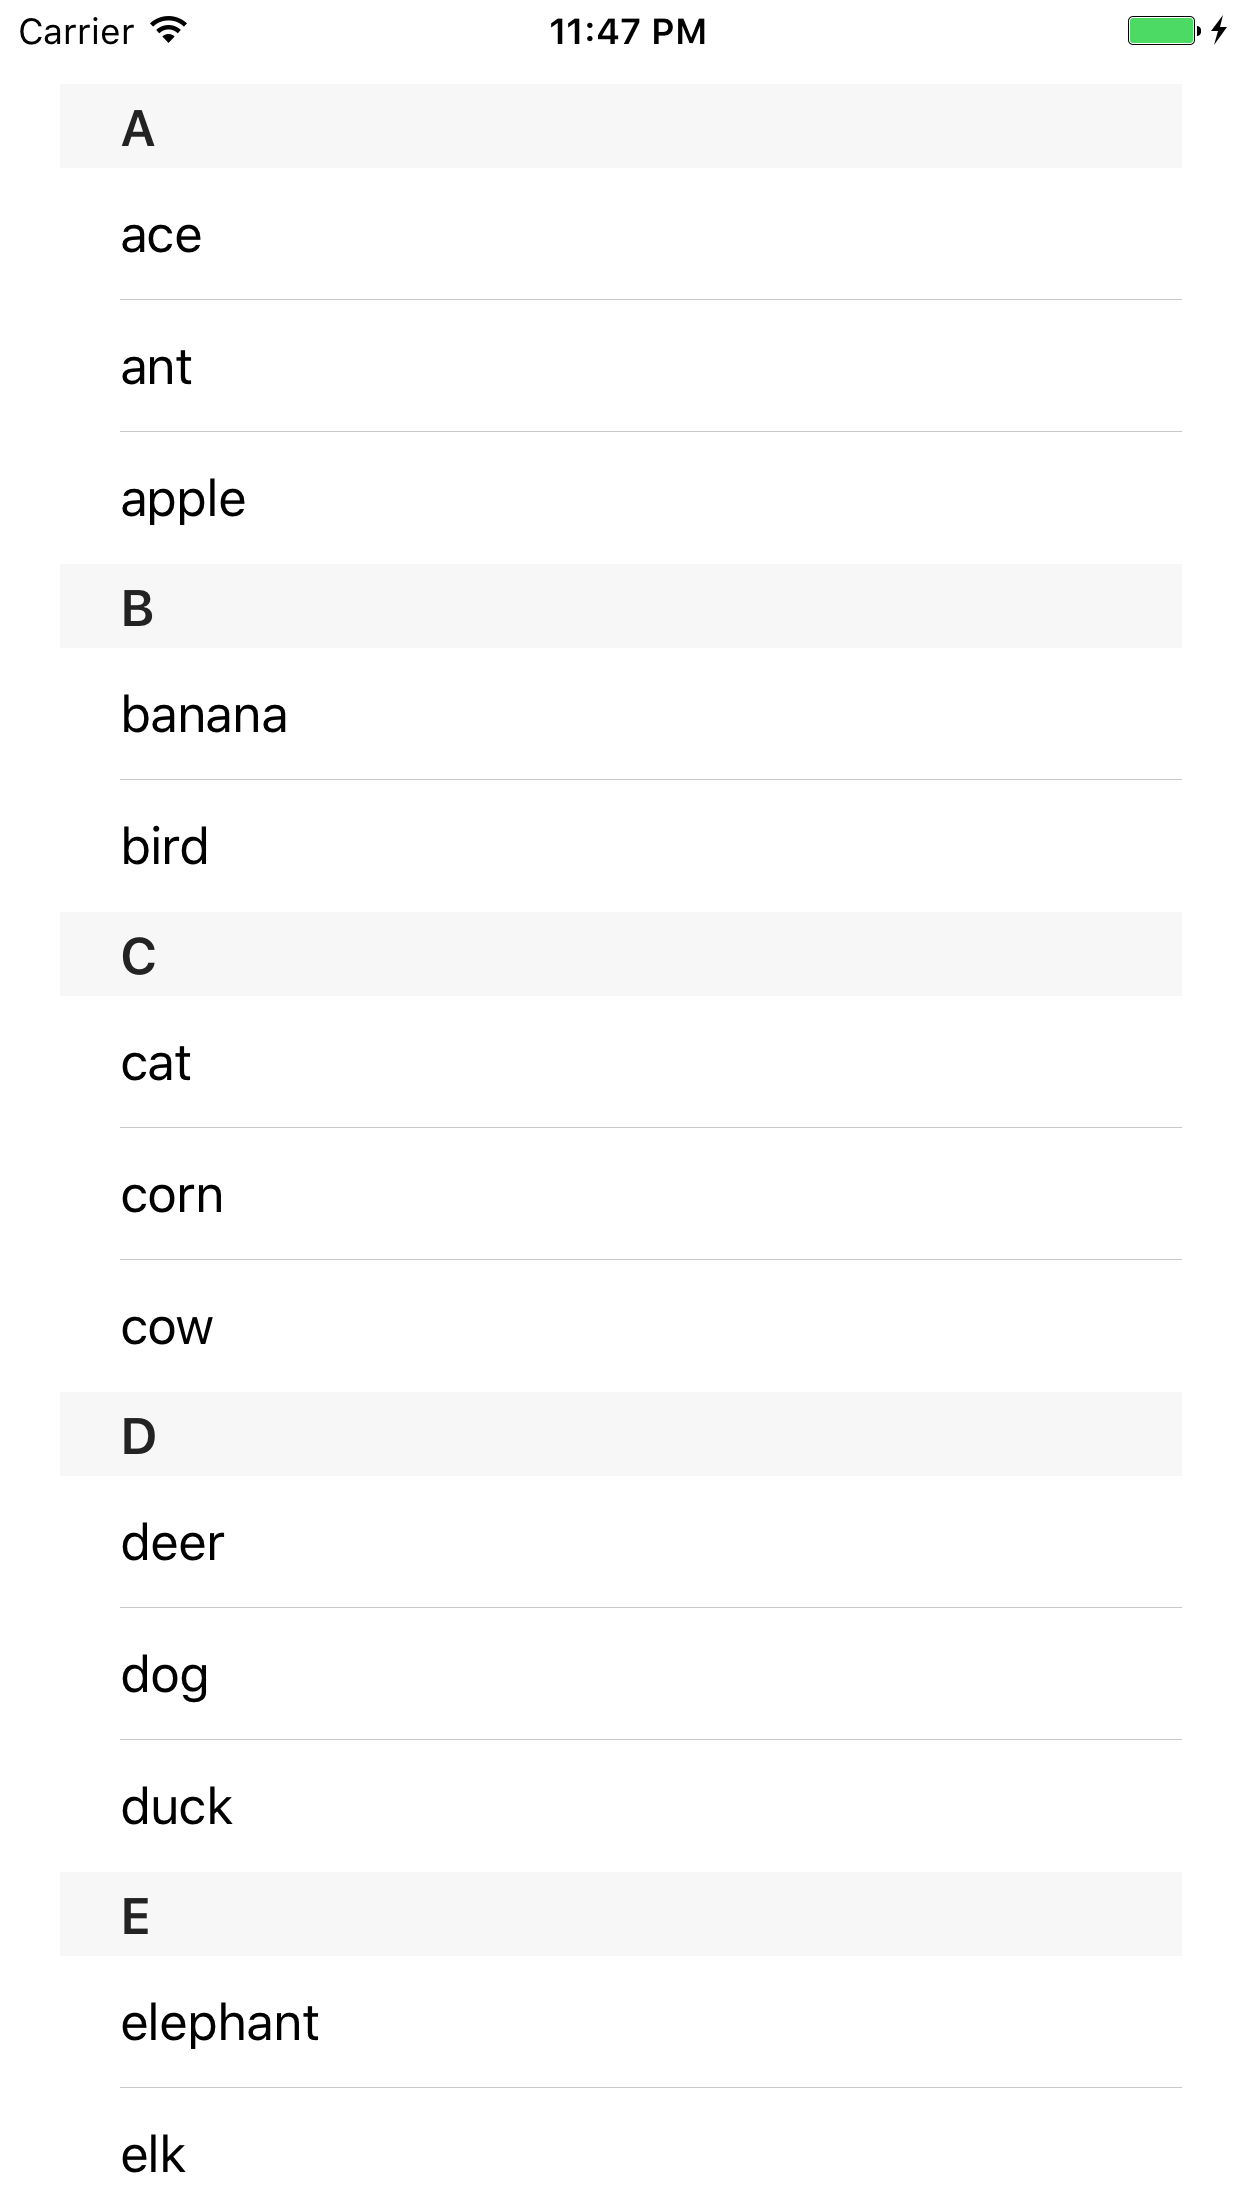
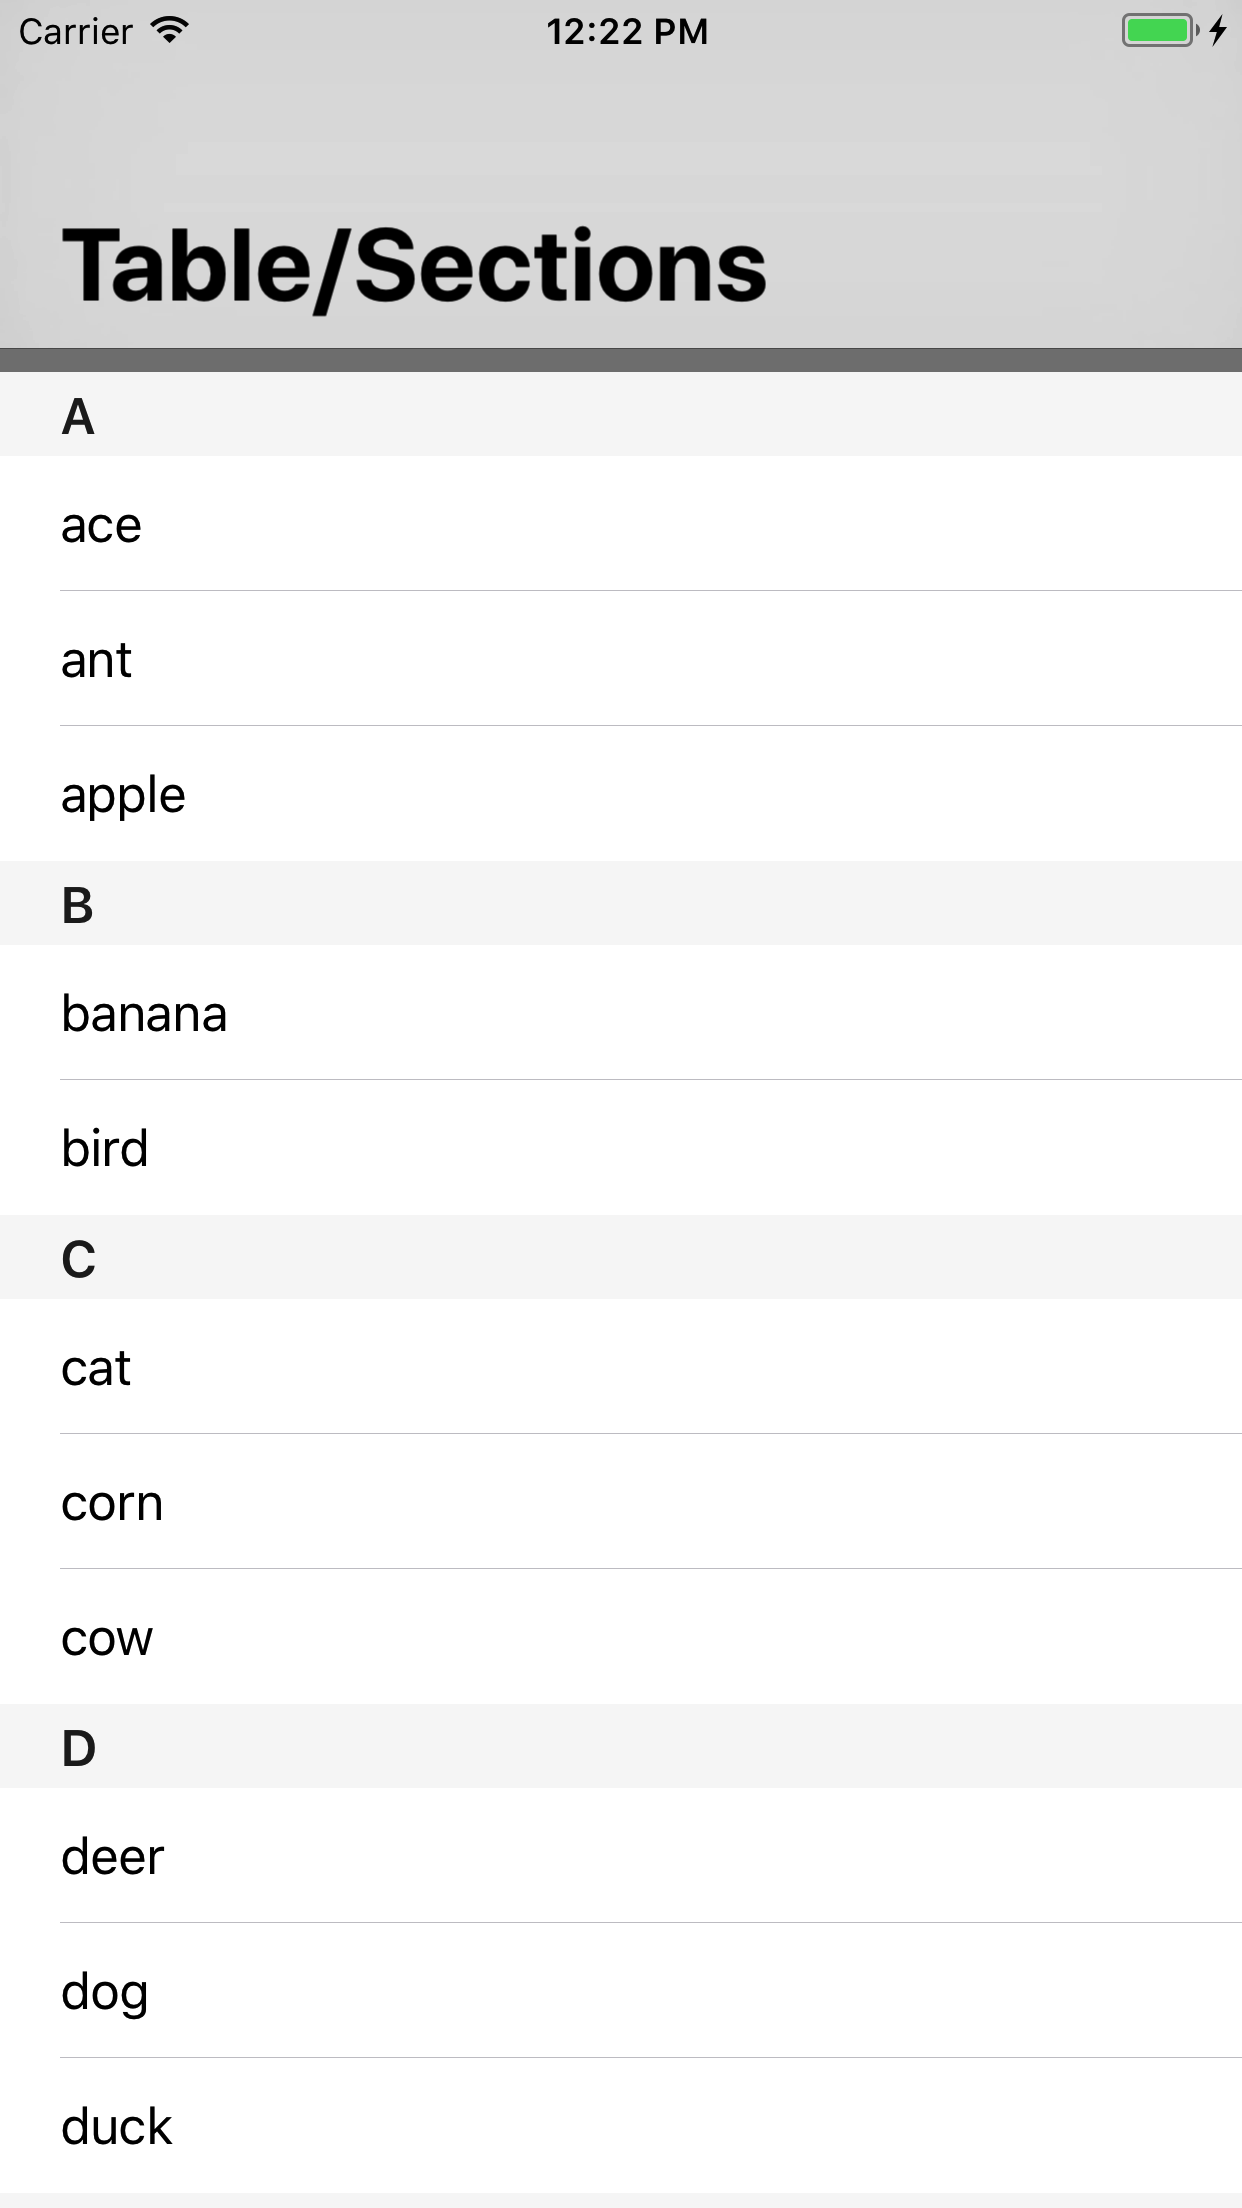
fixed screenshots

diff --git a/TableViewWithSections/TableViewWithSections/ViewController.swift b/TableViewWithSections/TableViewWithSections/ViewController.swift
@@ -13,31 +13,29 @@ class ViewController: UIViewController {
     
     func addTableView() {
         
-        let viewDictionary:[String:AnyObject] = [
-            "tableView": tableViewController.tableView,
-            "topLayoutGuide": topLayoutGuide,
-            
-            ]
         tableViewController.tableView.translatesAutoresizingMaskIntoConstraints = false
         
         self.view.addSubview(tableViewController.tableView)
+        let guide = view.safeAreaLayoutGuide
         
-        let metrics:[String:AnyObject] = [:]
-        
-        let h0Constraint = "H:|-[tableView]-|"
-        let v0Constraint = "V:[topLayoutGuide]-[tableView]-|"
-        
-        [h0Constraint, v0Constraint].forEach {
+        NSLayoutConstraint.activate([
             
-            let constraint = NSLayoutConstraint.constraints(withVisualFormat: $0, options: [], metrics: metrics, views: viewDictionary)
+            tableViewController.tableView.topAnchor.constraintEqualToSystemSpacingBelow(guide.topAnchor, multiplier: 1.0),
+            tableViewController.tableView.bottomAnchor.constraintEqualToSystemSpacingBelow(view.bottomAnchor, multiplier: 1.0),
+            tableViewController.tableView.leftAnchor.constraint(equalTo: self.view.leftAnchor, constant: 0),
+            tableViewController.tableView.rightAnchor.constraint(equalTo: self.view.rightAnchor, constant: 0),
             
-            NSLayoutConstraint.activate(constraint)
-        }
+            ])
         
     }
     
     override func viewDidLoad() {
         super.viewDidLoad()
+        
+        self.view.backgroundColor = .gray
+        navigationController?.navigationBar.prefersLargeTitles = true
+        self.title = "Table/Sections"
+        
         addTableView()
     }
 

diff --git a/TableViewWithSections/TableViewWithSections/README.md b/TableViewWithSections/TableViewWithSections/README.md
@@ -1,6 +1,6 @@
 Menu: [Home](../../README.md)
 
-## UITableViewController with Index
+## UITableViewController Subclass with Sections
 
 ![Screenshot](screenshot-small.png)
 
